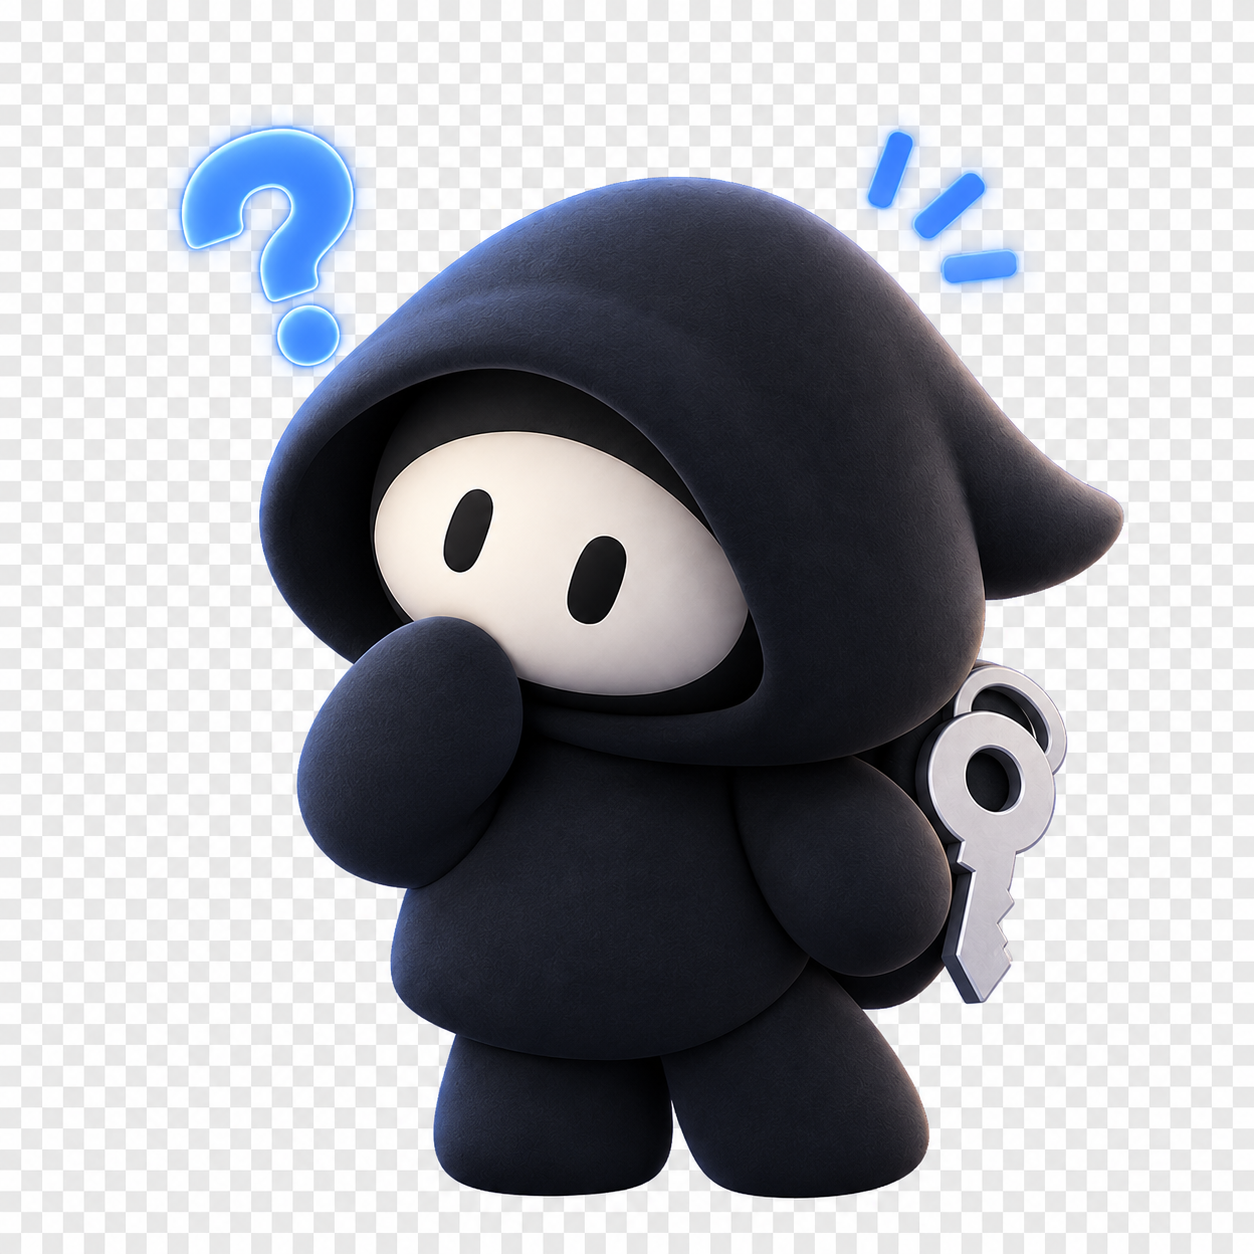
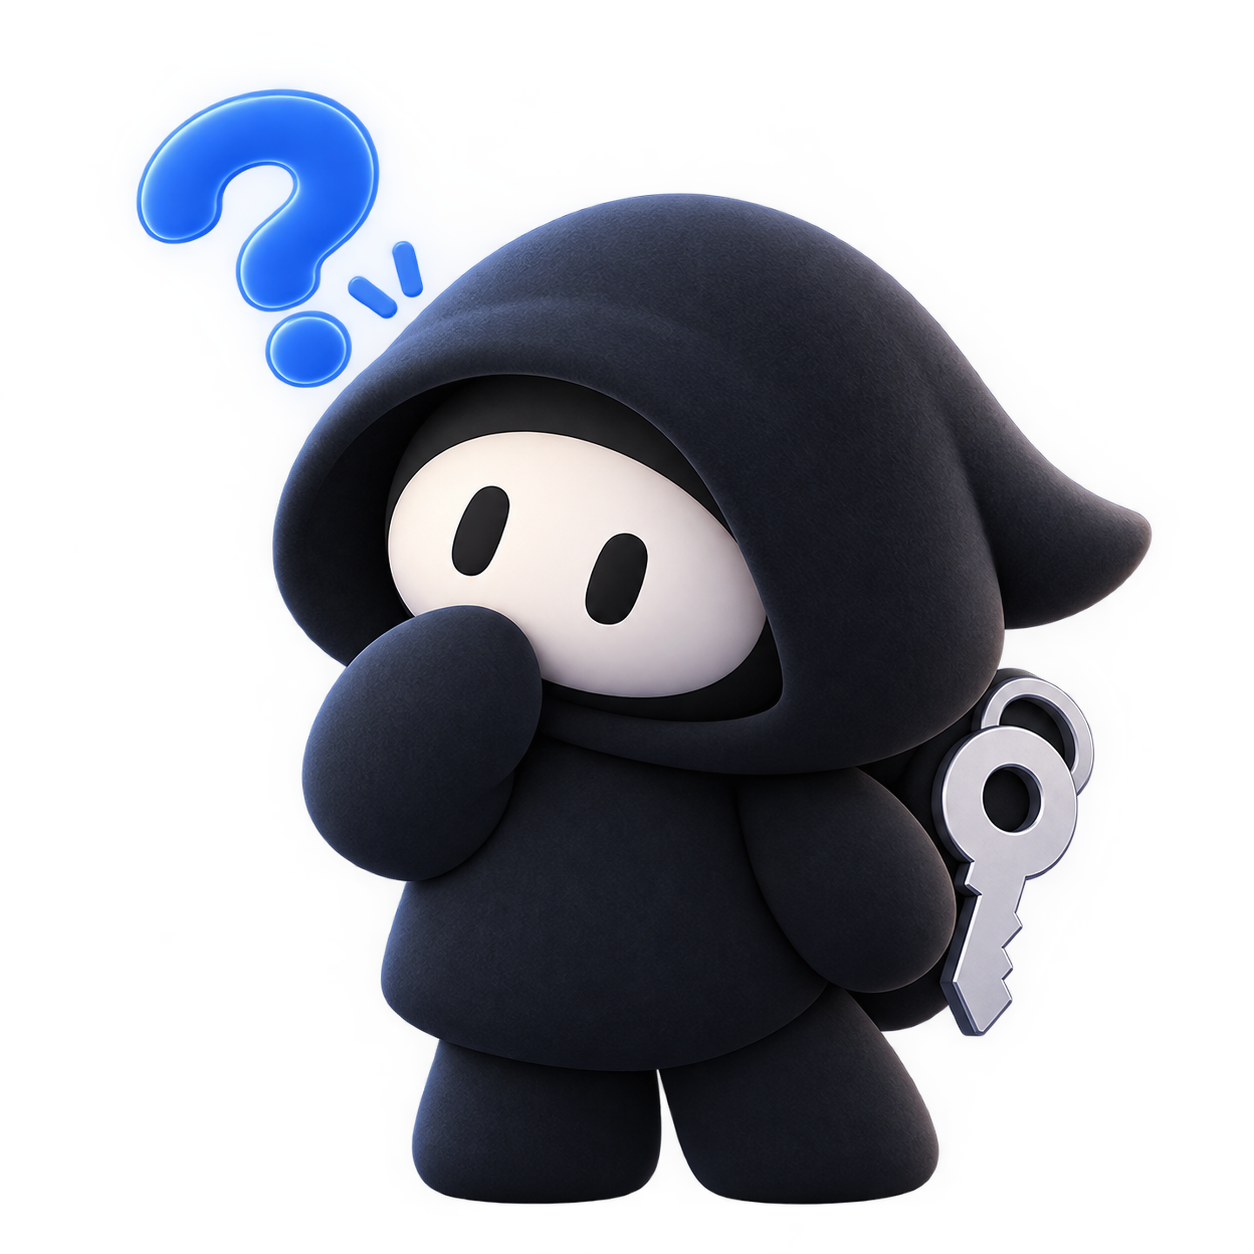
AI 챗봇 제공자 추가 및 메인 컴포넌트 수정

diff --git a/src/providers/AiChatbotProvider.tsx b/src/providers/AiChatbotProvider.tsx
@@ -1,0 +1,99 @@
+import {
+  createContext,
+  useCallback,
+  useContext,
+  useEffect,
+  useMemo,
+  useState,
+  type ReactNode,
+} from "react";
+import { createPortal } from "react-dom";
+import "./css/ai-chatbot.css";
+
+interface AiChatbotContextValue {
+  isOpen: boolean;
+  open: () => void;
+  close: () => void;
+  toggle: () => void;
+}
+
+const AiChatbotContext = createContext<AiChatbotContextValue | null>(null);
+
+const ICON_SWAP_MS = 3200;
+
+function AiChatbotToggle({
+  isOpen,
+  onToggle,
+}: {
+  isOpen: boolean;
+  onToggle: () => void;
+}) {
+  const [showActiveIcon, setShowActiveIcon] = useState(false);
+
+  useEffect(() => {
+    const timer = window.setInterval(() => {
+      setShowActiveIcon((current) => !current);
+    }, ICON_SWAP_MS);
+    return () => window.clearInterval(timer);
+  }, []);
+
+  return createPortal(
+    <button
+      type="button"
+      className={[
+        "ai-chatbot-toggle",
+        isOpen ? "ai-chatbot-toggle--open" : "",
+        showActiveIcon ? "ai-chatbot-toggle--alt" : "",
+      ]
+        .filter(Boolean)
+        .join(" ")}
+      aria-label={isOpen ? "AI 챗봇 닫기" : "AI 챗봇 열기"}
+      aria-pressed={isOpen}
+      onClick={onToggle}
+    >
+      <span className="ai-chatbot-toggle__icons" aria-hidden>
+        <img
+          className="ai-chatbot-toggle__icon ai-chatbot-toggle__icon--idle"
+          src="/ai-icon2.png"
+          alt=""
+          draggable={false}
+        />
+        <img
+          className="ai-chatbot-toggle__icon ai-chatbot-toggle__icon--active"
+          src="/ai-icon1.png"
+          alt=""
+          draggable={false}
+        />
+      </span>
+    </button>,
+    document.body,
+  );
+}
+
+export function AiChatbotProvider({ children }: { children: ReactNode }) {
+  const [isOpen, setIsOpen] = useState(false);
+
+  const open = useCallback(() => setIsOpen(true), []);
+  const close = useCallback(() => setIsOpen(false), []);
+  const toggle = useCallback(() => setIsOpen((current) => !current), []);
+
+  const value = useMemo<AiChatbotContextValue>(
+    () => ({ isOpen, open, close, toggle }),
+    [isOpen, open, close, toggle],
+  );
+
+  return (
+    <AiChatbotContext.Provider value={value}>
+      {children}
+      <AiChatbotToggle isOpen={isOpen} onToggle={toggle} />
+    </AiChatbotContext.Provider>
+  );
+}
+
+export function useAiChatbot(): AiChatbotContextValue {
+  const context = useContext(AiChatbotContext);
+  if (!context) {
+    throw new Error("useAiChatbot must be used within AiChatbotProvider");
+  }
+  return context;
+}

diff --git a/src/providers/css/ai-chatbot.css b/src/providers/css/ai-chatbot.css
@@ -1,0 +1,89 @@
+.ai-chatbot-toggle {
+  --ai-toggle-size: 180px;
+  position: fixed;
+  right: 36px;
+  bottom: 36px;
+  z-index: 2400;
+  display: grid;
+  place-items: center;
+  width: var(--ai-toggle-size);
+  height: var(--ai-toggle-size);
+  padding: 0;
+  border: none;
+  border-radius: 32px;
+  background: transparent;
+  box-shadow: none;
+  cursor: pointer;
+  overflow: visible;
+  animation: ai-chatbot-float 3.6s ease-in-out infinite;
+  transition: transform 180ms ease;
+}
+
+.ai-chatbot-toggle:hover {
+  transform: translateY(-2px) scale(1.03);
+}
+
+.ai-chatbot-toggle:active {
+  transform: translateY(0) scale(0.98);
+}
+
+.ai-chatbot-toggle:focus-visible {
+  outline: 2px solid color-mix(in srgb, #38bdf8 70%, white);
+  outline-offset: 3px;
+}
+
+.ai-chatbot-toggle__icons {
+  position: relative;
+  width: 100%;
+  height: 100%;
+}
+
+.ai-chatbot-toggle__icon {
+  position: absolute;
+  inset: 0;
+  width: 100%;
+  height: 100%;
+  object-fit: contain;
+  object-position: center;
+  user-select: none;
+  pointer-events: none;
+  filter: drop-shadow(0 10px 18px rgba(0, 0, 0, 0.42))
+    drop-shadow(0 2px 6px rgba(0, 0, 0, 0.28));
+  transition: opacity 420ms ease;
+}
+
+.ai-chatbot-toggle__icon--idle {
+  opacity: 1;
+}
+
+.ai-chatbot-toggle__icon--active {
+  opacity: 0;
+}
+
+.ai-chatbot-toggle--alt .ai-chatbot-toggle__icon--idle {
+  opacity: 0;
+}
+
+.ai-chatbot-toggle--alt .ai-chatbot-toggle__icon--active {
+  opacity: 1;
+}
+
+@keyframes ai-chatbot-float {
+  0%,
+  100% {
+    translate: 0 0;
+  }
+  50% {
+    translate: 0 -5px;
+  }
+}
+
+@media (prefers-reduced-motion: reduce) {
+  .ai-chatbot-toggle {
+    animation: none;
+  }
+
+  .ai-chatbot-toggle__icon {
+    transition: none;
+  }
+}

diff --git a/src/main.tsx b/src/main.tsx
@@ -4,6 +4,7 @@ import { getCurrentWindow } from "@tauri-apps/api/window";
 import App from "./App";
 import { repairDocumentUrl } from "@/config/routeUtils";
 import { getAppName } from "@/lib/env";
+import { AiChatbotProvider } from "@/providers/AiChatbotProvider";
 import { QueryProvider } from "@/providers/QueryProvider";
 import { ToastProvider } from "@/providers/ToastProvider";
 import "./index.css";
@@ -28,7 +29,9 @@ createRoot(rootElement).render(
   <StrictMode>
     <QueryProvider>
       <ToastProvider>
-        <App />
+        <AiChatbotProvider>
+          <App />
+        </AiChatbotProvider>
       </ToastProvider>
     </QueryProvider>
   </StrictMode>,
